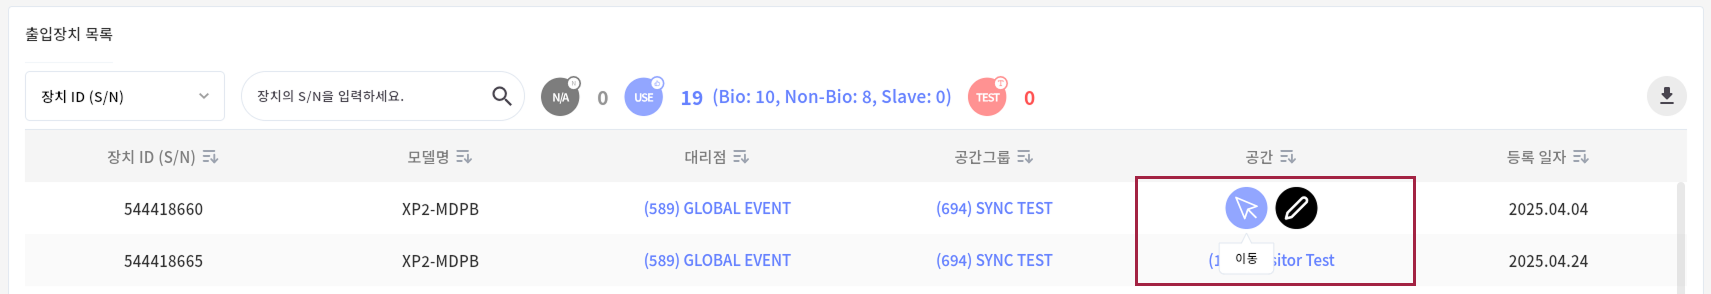
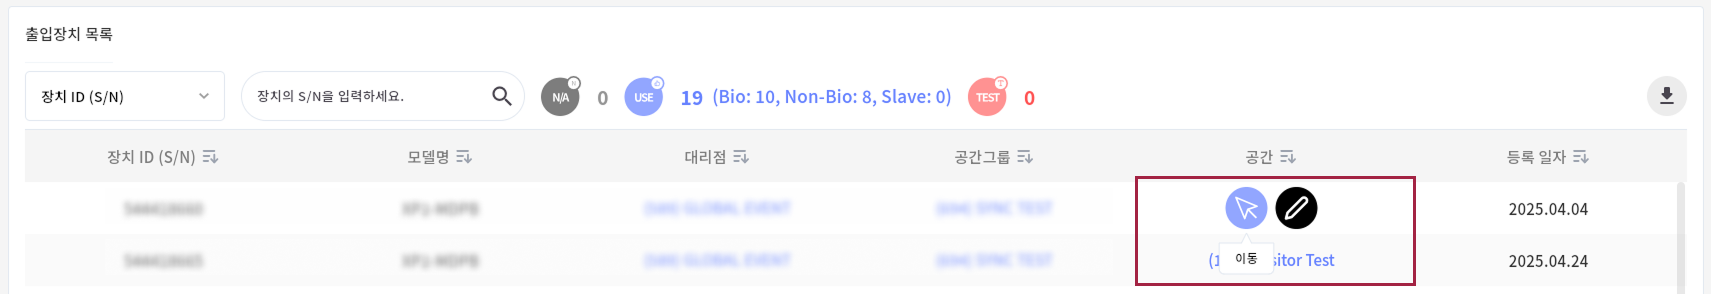
AB#110: 이종근 부장님 피드백 - 펌웨어 업그레이드 문서 추가

diff --git a/sidebars.js b/sidebars.js
@@ -49,6 +49,7 @@ function createSidebars(preview) {
               'platform/clue/fw-update',
               'platform/clue/add-device',
               'platform/clue/add-door',
+              'platform/clue/fw-upgrade',
               'platform/clue/mobile-app-start'
             ]
           },